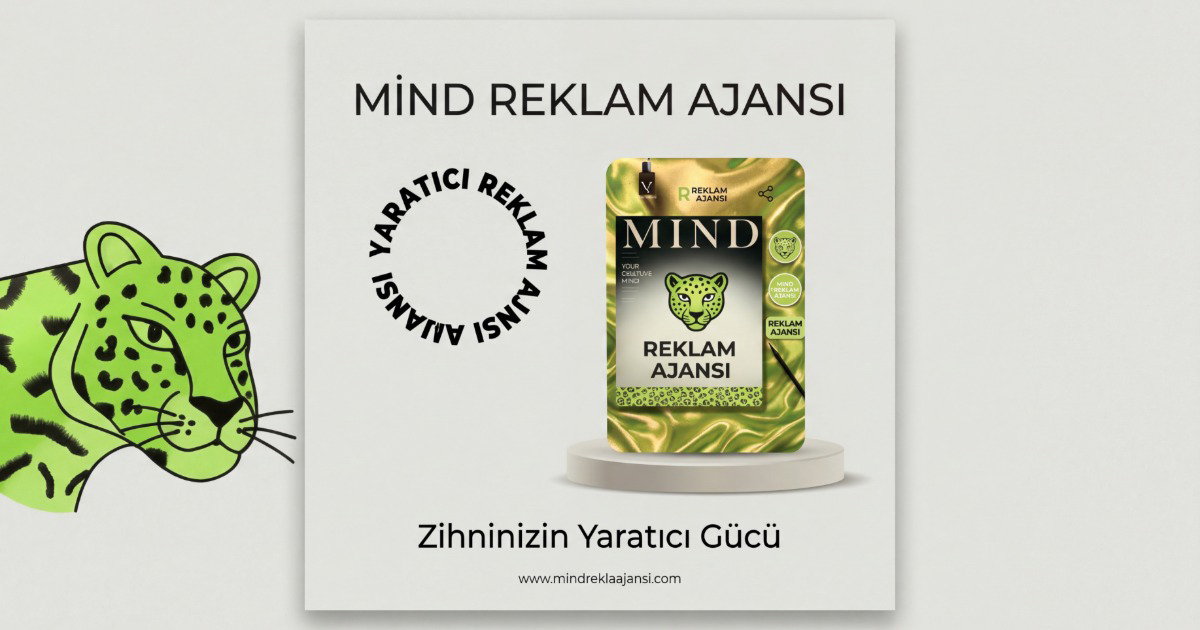
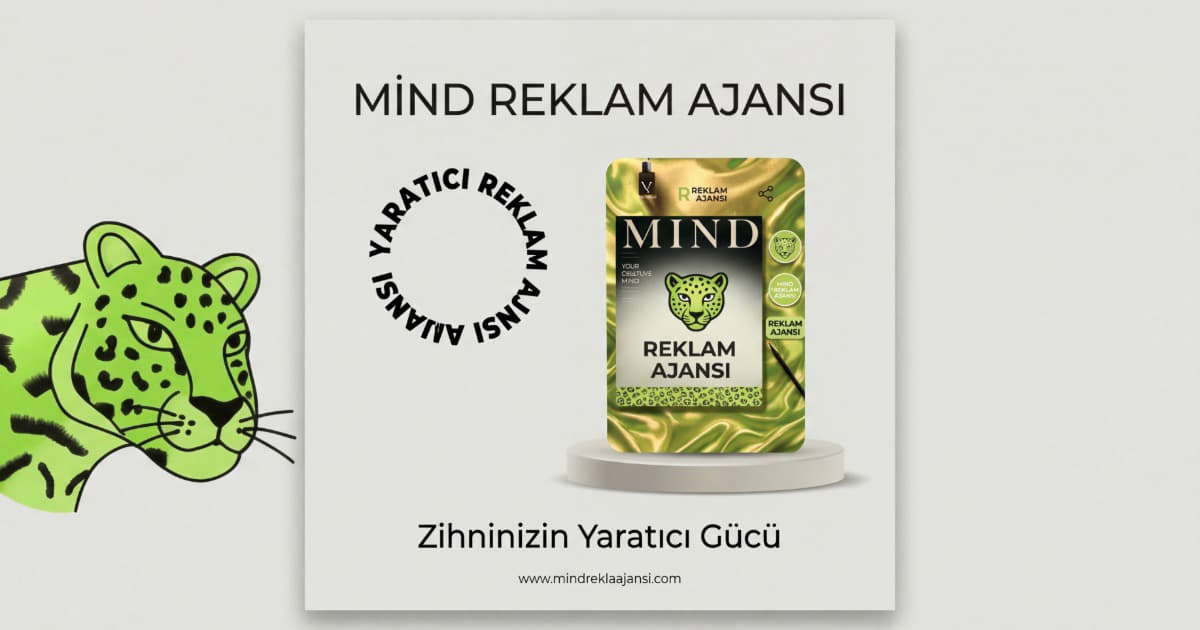
fix: update OG image refs to JPEG, compress image, and remove portfolio card
- Switch all og-image.png references to og-image.jpeg
- Compress OG image from 237KB to 47KB
- Remove portfolio card from service cards (moved to hero slider)
- Remove compress-og.mjs utility (no longer needed)

diff --git a/src/components/service-cards.tsx b/src/components/service-cards.tsx
@@ -3,7 +3,7 @@
 import { useI18n } from "@/lib/i18n";
 import { usePricing } from "@/lib/hooks/use-firestore";
 import { SERVICE_TYPES } from "@/lib/pricing-data";
-import { FolderOpen, Images, ArrowRight } from "lucide-react";
+import { FolderOpen, ArrowRight } from "lucide-react";
 import Link from "next/link";
 import { useRef, useEffect, useState } from "react";
 
@@ -49,11 +49,10 @@ export const ServiceCards = () => {
     el.scrollBy({ left: direction === "right" ? cardWidth : -cardWidth, behavior: "smooth" });
   };
 
-  // All items: sorted services + avatar + portfolio
+  // All items: sorted services + avatar (portfolio artık hero'da slider olarak gösteriliyor)
   const allItems = [
     ...sortedServices.map((s) => ({ type: "service" as const, service: s })),
     ...(avatarService ? [{ type: "service" as const, service: avatarService }] : []),
-    { type: "portfolio" as const, service: null },
   ];
 
   return (
@@ -103,44 +102,6 @@ export const ServiceCards = () => {
             style={{ scrollbarWidth: "none", msOverflowStyle: "none", WebkitOverflowScrolling: "touch" }}
           >
             {allItems.map((item, i) => {
-              if (item.type === "portfolio") {
-                return (
-                  <Link
-                    key="portfolio"
-                    href="/portfolio"
-                    className="flex-shrink-0 w-[280px] md:w-[300px] snap-start group relative p-5 rounded-lg bg-[var(--electric-blue)]/20 border-3 border-[var(--electric-blue)] shadow-[5px_5px_0px_var(--electric-blue)] cursor-pointer block hover:shadow-[3px_3px_0px_var(--lime)] hover:border-[var(--lime)] transition-all duration-300 hover:-translate-y-2"
-                  >
-                    <div className="absolute -top-3 left-4 px-3 py-0.5 bg-[var(--electric-blue)] border-3 border-[var(--dark-blue)] border-b-0 rounded-t-md">
-                      <Images size={16} className="text-[var(--lime)]" />
-                    </div>
-
-                    <div className="flex items-center gap-2 mt-2 mb-3">
-                      <FolderOpen size={18} className="text-[var(--lime)]" />
-                      <span className="text-[10px] uppercase tracking-wider font-bold text-[var(--gray)]">
-                        MindID
-                      </span>
-                    </div>
-
-                    <h3 className="font-black text-[var(--cream)] text-sm leading-tight mb-2 group-hover:text-[var(--lime)] transition-colors">
-                      {t("service.portfolio")}
-                    </h3>
-
-                    <p className="text-xs text-[var(--gray)] mb-4 leading-relaxed">
-                      {t("service.portfolio.desc")}
-                    </p>
-
-                    <div className="flex items-center gap-2 text-[var(--lime)] text-xs font-bold">
-                      <span>48 Video</span>
-                      <ArrowRight size={14} />
-                    </div>
-
-                    <div className="absolute bottom-3 right-3 w-7 h-7 rounded-md bg-[var(--electric-blue)] text-[var(--lime)] flex items-center justify-center opacity-0 group-hover:opacity-100 transition-opacity text-sm font-bold">
-                      &rarr;
-                    </div>
-                  </Link>
-                );
-              }
-
               const service = item.service!;
               const isAvatar = service.id === "avatar";
               const href = isAvatar ? "/avatar" : `/configure/${service.id}`;

diff --git a/src/app/layout.tsx b/src/app/layout.tsx
@@ -45,7 +45,7 @@ export const metadata: Metadata = {
       "Yapay zeka ile reklam filmi, avatar oluşturma ve ürün görseli üretimi. %70 maliyet tasarrufu. 399₺'den başlayan fiyatlar.",
     images: [
       {
-        url: "/og-image.png",
+        url: "/og-image.jpeg",
         width: 1200,
         height: 630,
         alt: "MindID — AI Reklam Prodüksiyon Stüdyosu",
@@ -59,7 +59,7 @@ export const metadata: Metadata = {
     title: "MindID — AI Reklam Filmleri & Ürün Görselleri",
     description:
       "AI ile reklam filmi ve ürün görseli üretimi. Stüdyo kalitesinde, %70 daha az maliyet.",
-    images: ["/og-image.png"],
+    images: ["/og-image.jpeg"],
   },
   robots: {
     index: true,

diff --git a/src/app/portfolio/[slug]/page.tsx b/src/app/portfolio/[slug]/page.tsx
@@ -106,7 +106,7 @@ const PortfolioDetailPage = async ({
         name: item.title,
         description:
           item.seoDescription || item.description || `${item.title} — MindID AI prodüksiyon`,
-        thumbnailUrl: item.thumbnailUrl || "https://mindid.shop/og-image.png",
+        thumbnailUrl: item.thumbnailUrl || "https://mindid.shop/og-image.jpeg",
         uploadDate:
           (item.completedAt as unknown as string) ||
           (item.createdAt as unknown as string) ||

diff --git a/src/app/page.tsx b/src/app/page.tsx
@@ -102,7 +102,7 @@ const reviewSchema = {
   "@type": "LocalBusiness",
   name: "MindID",
   url: "https://mindid.shop",
-  image: "https://mindid.shop/og-image.png",
+  image: "https://mindid.shop/og-image.jpeg",
   priceRange: "$$",
   address: {
     "@type": "PostalAddress",
